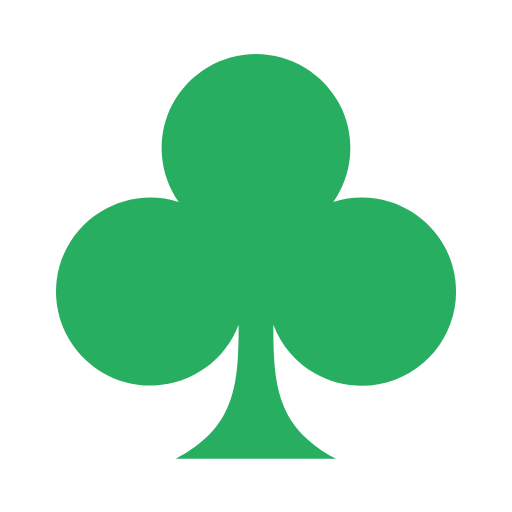
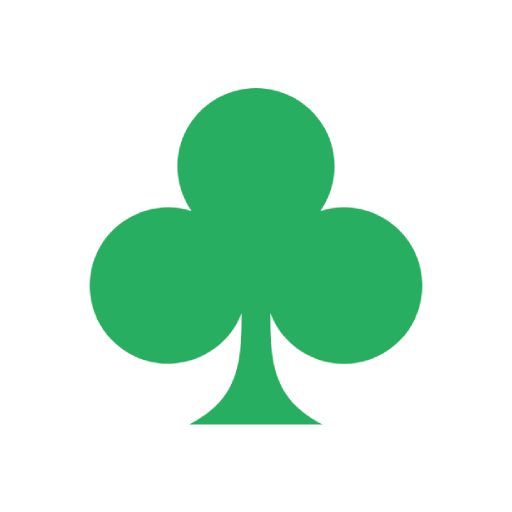
Updates

Changed region(s): [[0.0938, 0.0938, 0.9062, 0.9062]]

diff --git a/sw.js b/sw.js
@@ -1,1 +1,1 @@
-if(!self.define){let e,i={};const f=(f,n)=>(f=new URL(f+".js",n).href,i[f]||new Promise(i=>{if("document"in self){const e=document.createElement("script");e.src=f,e.onload=i,document.head.appendChild(e)}else e=f,importScripts(f),i()}).then(()=>{let e=i[f];if(!e)throw new Error(`Module ${f} didn’t register its module`);return e}));self.define=(n,o)=>{const r=e||("document"in self?document.currentScript.src:"")||location.href;if(i[r])return;let s={};const c=e=>f(e,r),t={module:{uri:r},exports:s,require:c};i[r]=Promise.all(n.map(e=>t[e]||c(e))).then(e=>(o(...e),s))}}define(["./workbox-3105ea8d"],function(e){"use strict";self.skipWaiting(),e.clientsClaim(),e.precacheAndRoute([{url:"share.png",revision:"62549491e5df50d34cb671692535302a"},{url:"registerSW.js",revision:"f56d0a74d721f52c35691f407ee5e180"},{url:"pwa-512x512.png",revision:"4ffcc066cad1ef62f1ee442053f06089"},{url:"pwa-192x192.png",revision:"a908eccb7e9df46feaeb7db4eea94a30"},{url:"index.html",revision:"597cb18d411fae1475418211fe002d3c"},{url:"favicon.svg",revision:"27ffbfa749d884d5b6da43187aed9b29"},{url:"apple-touch-icon.png",revision:"9e686ceb0d49261eecbeff1beb3031ca"},{url:"Roboto.ttf",revision:"53ef0e497dfefba8543ad65120e1bbb9"},{url:"Roboto-Italic.ttf",revision:"5b03341126c5c0b1d4db52bca7f45599"},{url:"assets/index-DS31OXx5.js",revision:null},{url:"assets/index-B-ynFo_i.css",revision:null},{url:"Roboto-Italic.ttf",revision:"5b03341126c5c0b1d4db52bca7f45599"},{url:"Roboto.ttf",revision:"53ef0e497dfefba8543ad65120e1bbb9"},{url:"apple-touch-icon.png",revision:"9e686ceb0d49261eecbeff1beb3031ca"},{url:"favicon.svg",revision:"27ffbfa749d884d5b6da43187aed9b29"},{url:"pwa-192x192.png",revision:"a908eccb7e9df46feaeb7db4eea94a30"},{url:"pwa-512x512.png",revision:"4ffcc066cad1ef62f1ee442053f06089"},{url:"manifest.webmanifest",revision:"ab7c5ee8ee437361b58fbadb38cff4c3"}],{}),e.cleanupOutdatedCaches(),e.registerRoute(new e.NavigationRoute(e.createHandlerBoundToURL("index.html")))});
+if(!self.define){let e,i={};const n=(n,o)=>(n=new URL(n+".js",o).href,i[n]||new Promise(i=>{if("document"in self){const e=document.createElement("script");e.src=n,e.onload=i,document.head.appendChild(e)}else e=n,importScripts(n),i()}).then(()=>{let e=i[n];if(!e)throw new Error(`Module ${n} didn’t register its module`);return e}));self.define=(o,r)=>{const s=e||("document"in self?document.currentScript.src:"")||location.href;if(i[s])return;let d={};const a=e=>n(e,s),b={module:{uri:s},exports:d,require:a};i[s]=Promise.all(o.map(e=>b[e]||a(e))).then(e=>(r(...e),d))}}define(["./workbox-3105ea8d"],function(e){"use strict";self.skipWaiting(),e.clientsClaim(),e.precacheAndRoute([{url:"share.png",revision:"62549491e5df50d34cb671692535302a"},{url:"registerSW.js",revision:"f56d0a74d721f52c35691f407ee5e180"},{url:"pwa-512x512.png",revision:"e8379f28d2002689956ab368bb8a590c"},{url:"pwa-192x192.png",revision:"ca5d7a8bc91b0c56a61932caa6514669"},{url:"index.html",revision:"597cb18d411fae1475418211fe002d3c"},{url:"favicon.svg",revision:"27ffbfa749d884d5b6da43187aed9b29"},{url:"apple-touch-icon.png",revision:"3fd8df43f65d9e3e004bae818b1b0de8"},{url:"Roboto.ttf",revision:"53ef0e497dfefba8543ad65120e1bbb9"},{url:"Roboto-Italic.ttf",revision:"5b03341126c5c0b1d4db52bca7f45599"},{url:"assets/index-DS31OXx5.js",revision:null},{url:"assets/index-B-ynFo_i.css",revision:null},{url:"Roboto-Italic.ttf",revision:"5b03341126c5c0b1d4db52bca7f45599"},{url:"Roboto.ttf",revision:"53ef0e497dfefba8543ad65120e1bbb9"},{url:"apple-touch-icon.png",revision:"3fd8df43f65d9e3e004bae818b1b0de8"},{url:"favicon.svg",revision:"27ffbfa749d884d5b6da43187aed9b29"},{url:"pwa-192x192.png",revision:"ca5d7a8bc91b0c56a61932caa6514669"},{url:"pwa-512x512.png",revision:"e8379f28d2002689956ab368bb8a590c"},{url:"manifest.webmanifest",revision:"ab7c5ee8ee437361b58fbadb38cff4c3"}],{}),e.cleanupOutdatedCaches(),e.registerRoute(new e.NavigationRoute(e.createHandlerBoundToURL("index.html")))});
